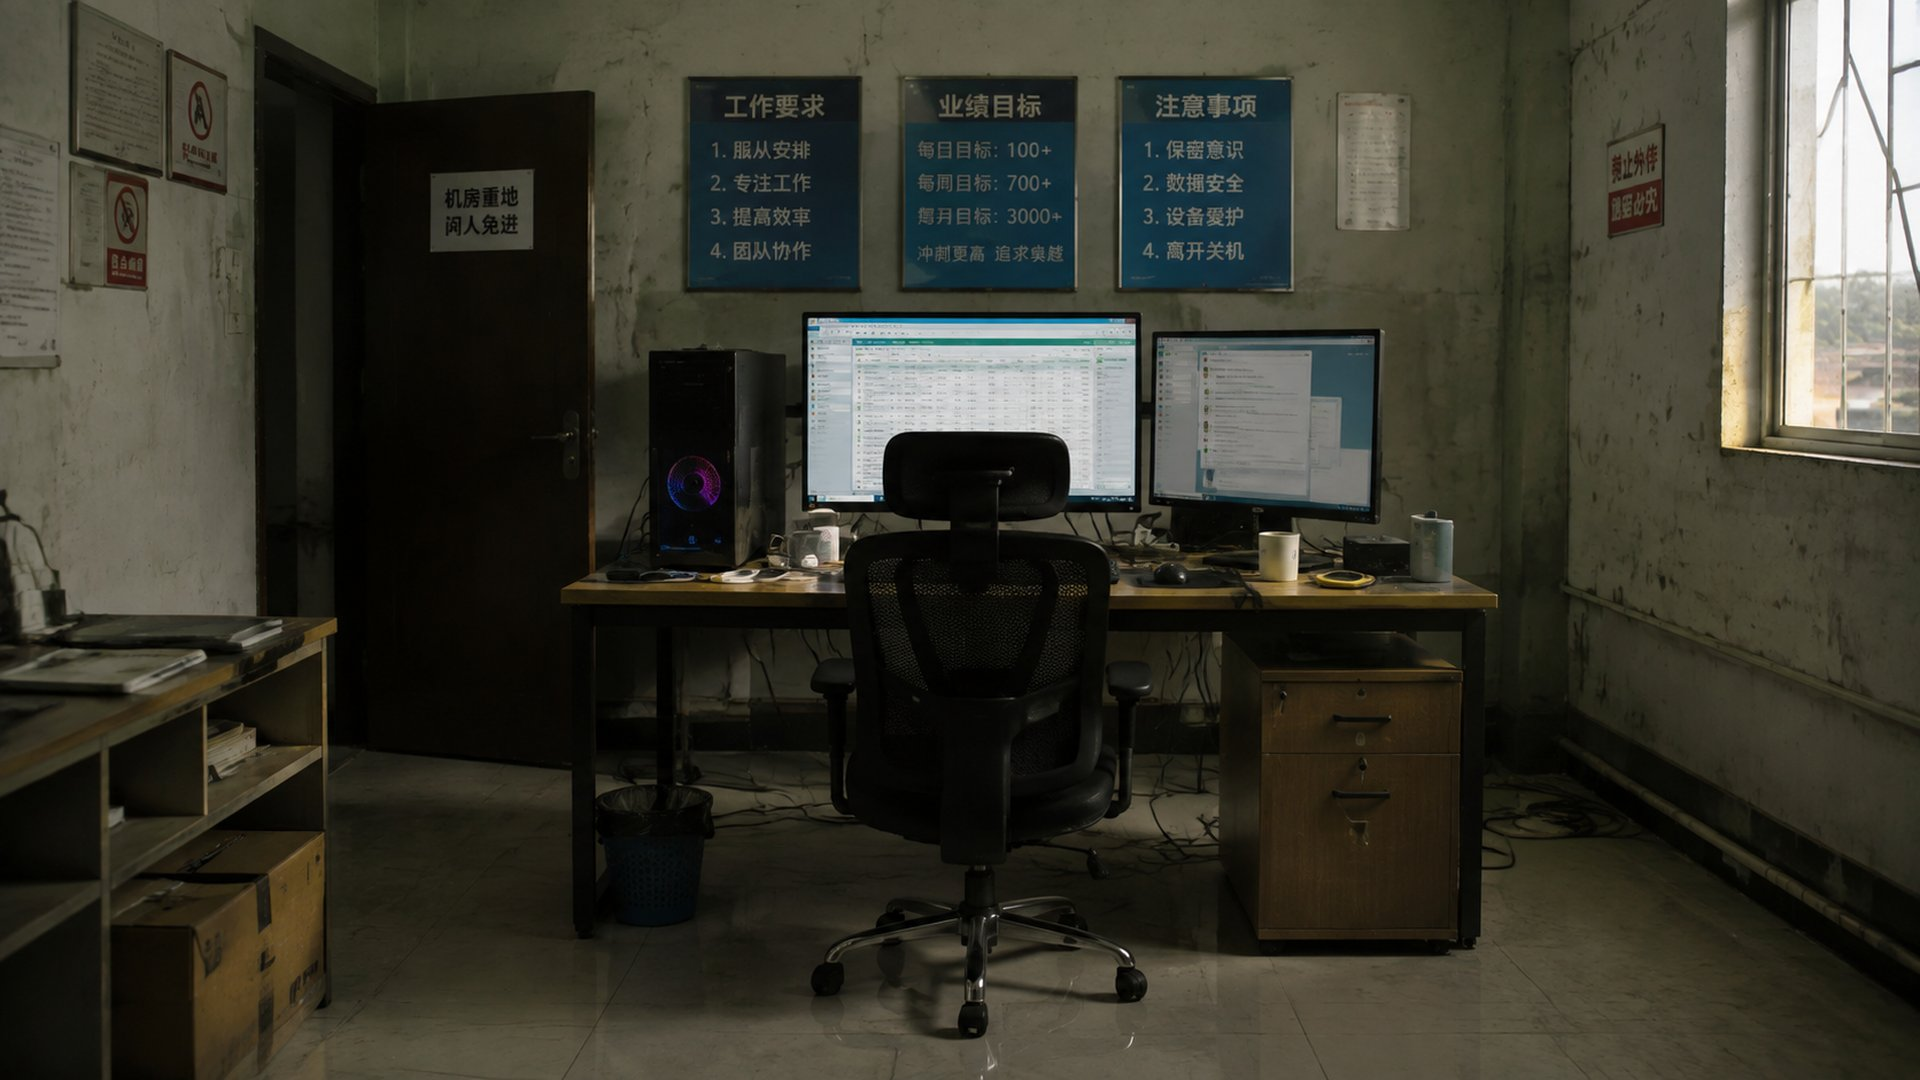
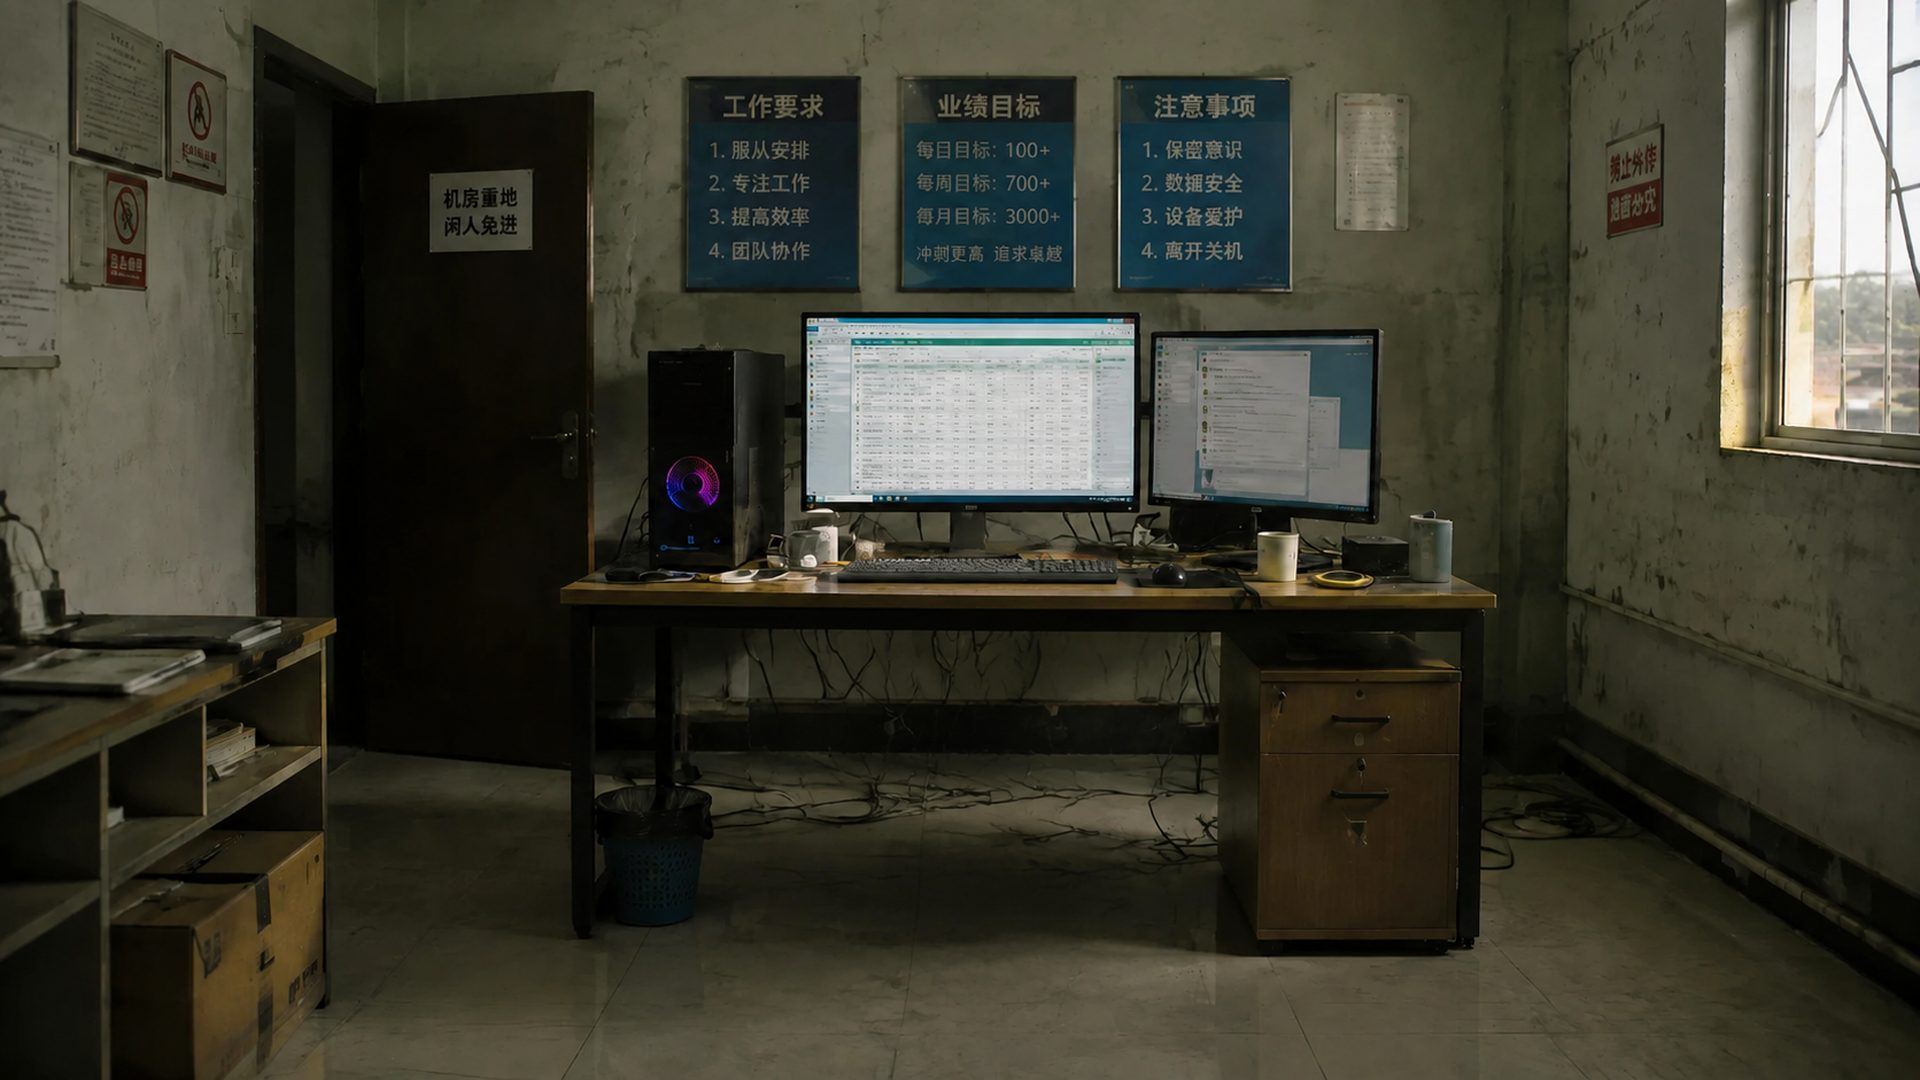
中转站背景换为无椅子版,椅子独立图层按原图坐标系对位(顶0.40/底0.928/中0.508),椅子素材换为图3重切版

diff --git a/index_template.html b/index_template.html
@@ -991,11 +991,14 @@ function layoutRelayScene() {
   relayBg.scale.set(bgScale);
   relayBg.x = (w - relayBg.texture.width * bgScale) / 2;
   relayBg.y = (h - relayBg.texture.height * bgScale) / 2;
-  // 椅子:办公桌前,底部中心锚点,坐垫落在桌前地面
-  const chairScale = h * 0.42 / chairSprite.texture.height;
-  chairSprite.scale.set(chairScale);
-  chairSprite.x = w / 2;
-  chairSprite.y = h * 0.88;
+  // 椅子:与背景同一坐标系,位置/大小对齐原始带椅子背景
+  // (在 1672x941 原图坐标系中:顶 0.3996 / 底 0.9277 / 水平中心 0.508)
+  const bw = relayBg.texture.width;
+  const bh = relayBg.texture.height;
+  const chH = (0.9277 - 0.3996) * bh * bgScale;
+  chairSprite.scale.set(chH / chairSprite.texture.height);
+  chairSprite.x = relayBg.x + 0.508 * bw * bgScale;
+  chairSprite.y = relayBg.y + 0.9277 * bh * bgScale; // anchor (0.5, 1):底部中心
 }
 
 function layoutRelayTab() {
